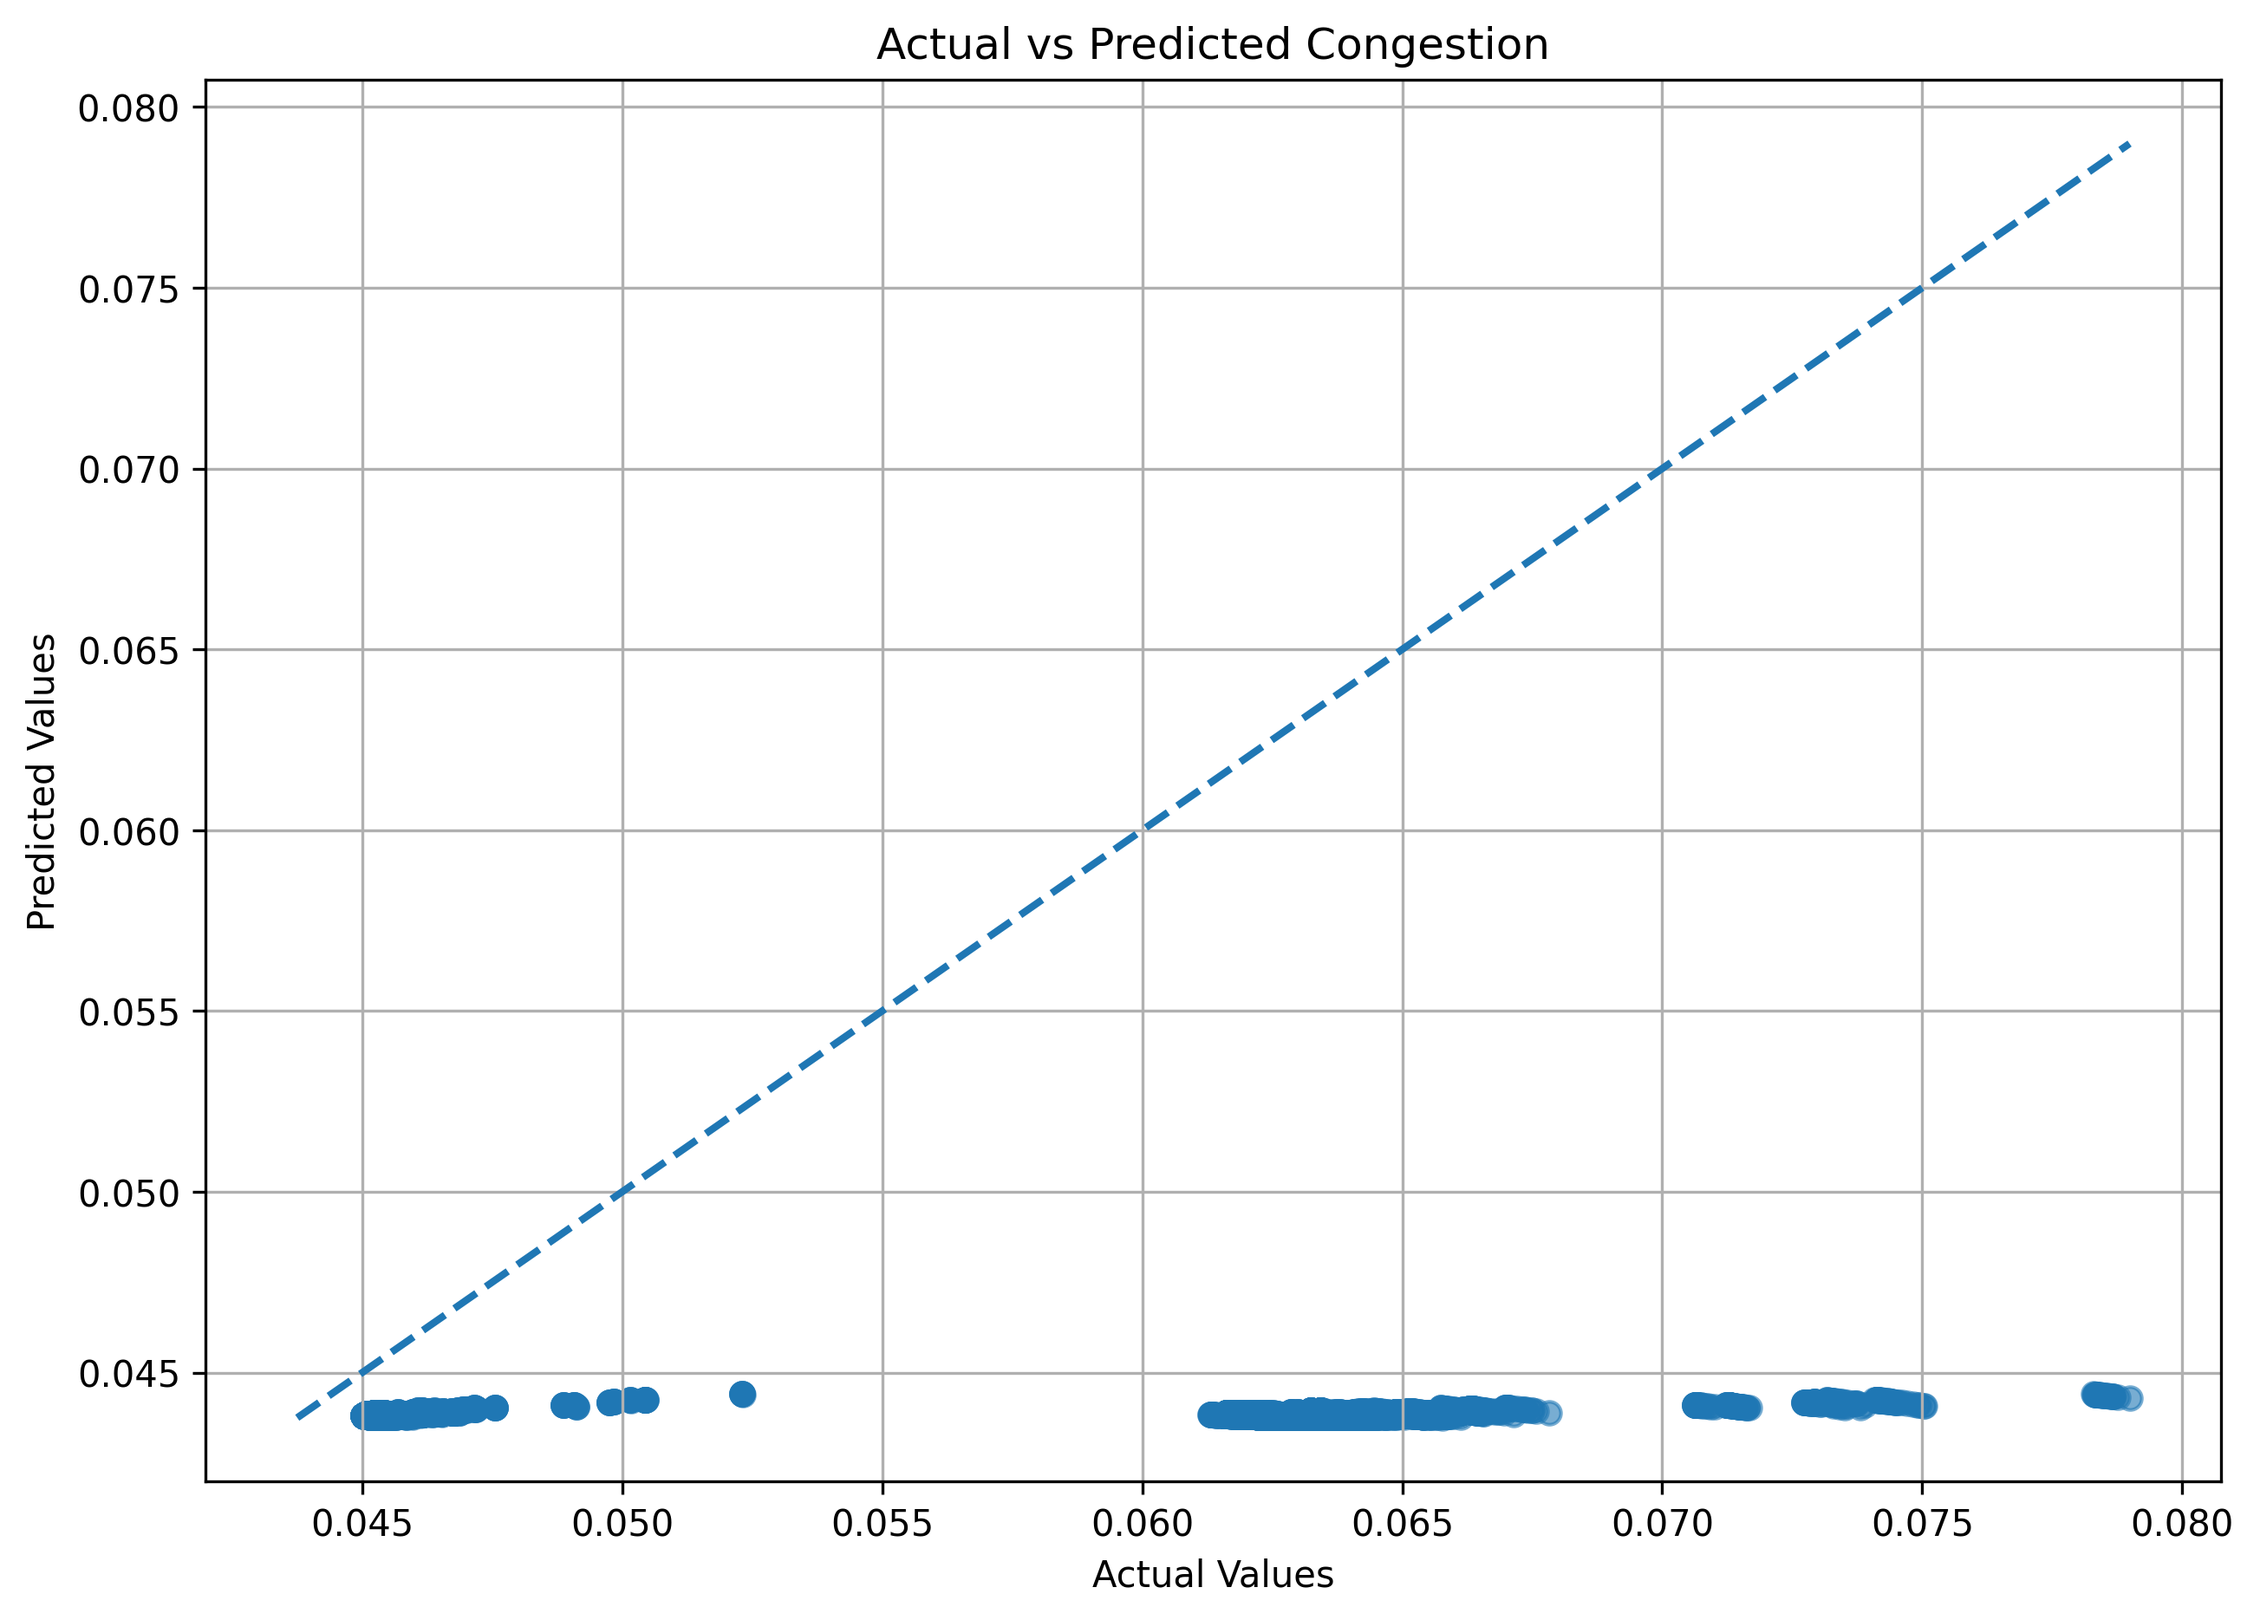
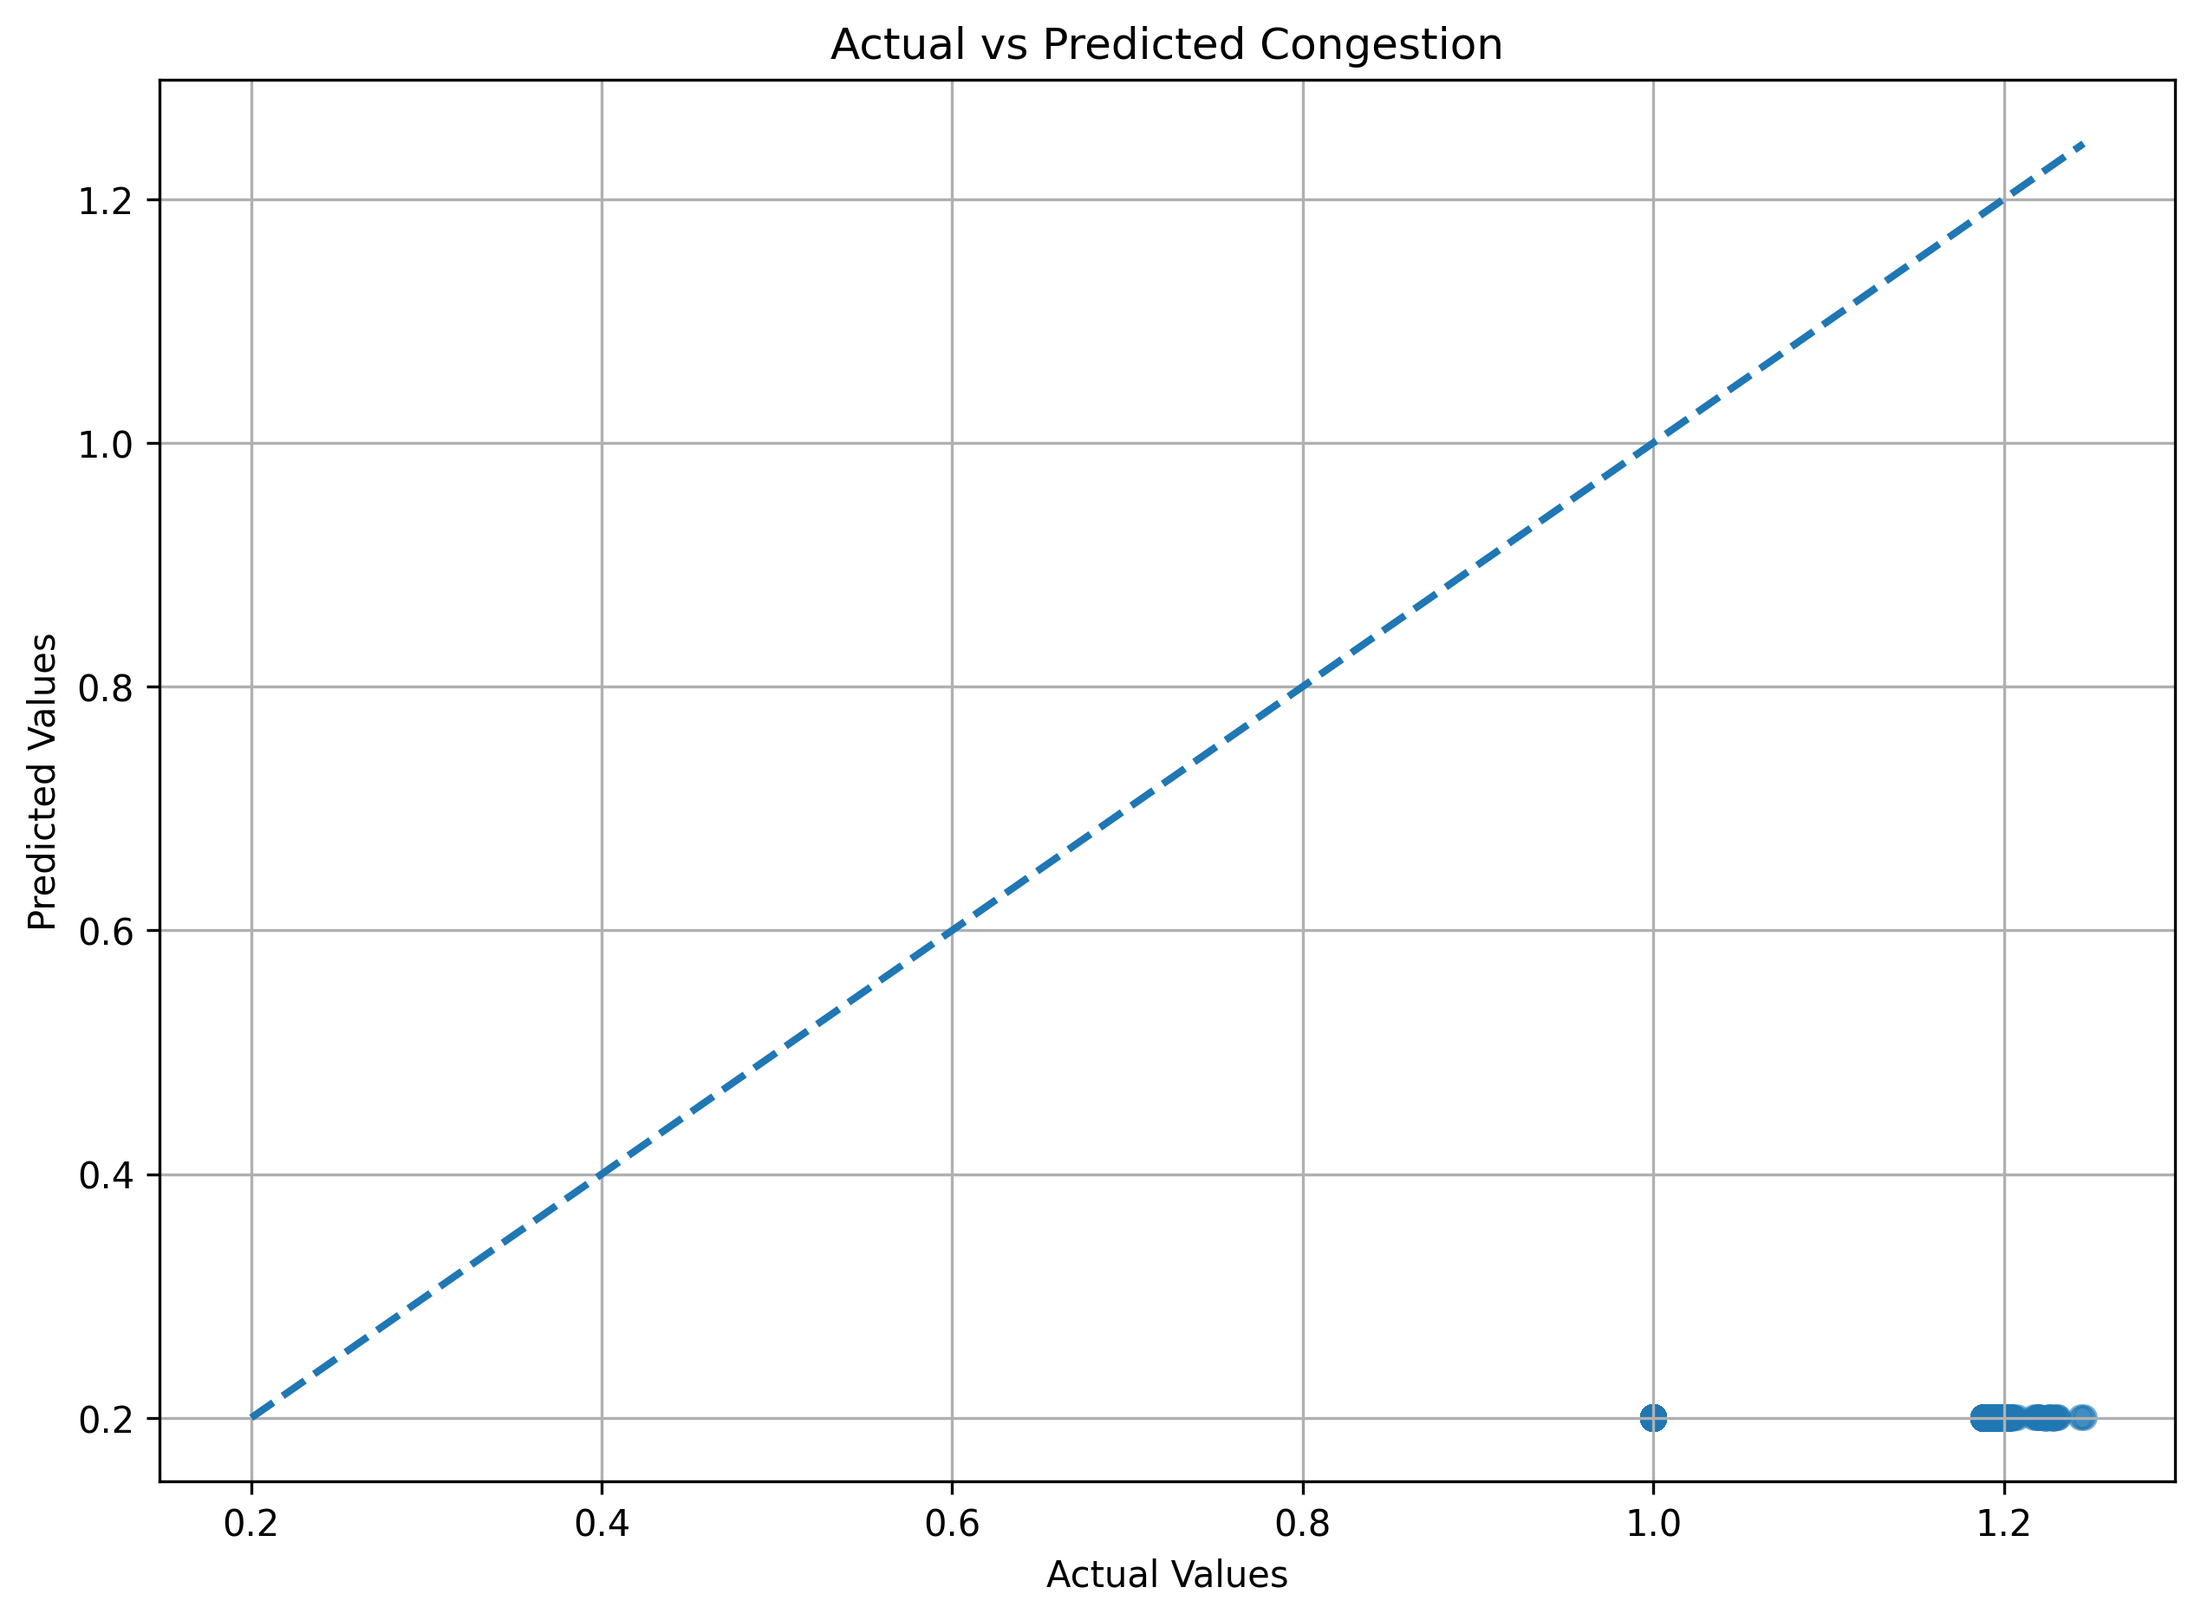
Refactored congestion modelling and improved simulation-driven neural network training

diff --git a/src/routing/metrics.py b/src/routing/metrics.py
@@ -10,8 +10,6 @@ from utils.config import (
 
     ROAD_TYPE_MAPPING,
 
-    DEFAULT_ROAD_TYPE,
-
     TRAINING_DATA_PATH,
 
     RESULTS_CSV_PATH
@@ -57,6 +55,10 @@ def calculate_average_edge_usage(edge_usage):
     Calculate average edge utilisation.
     """
 
+    if len(edge_usage) == 0:
+
+        return 0
+
     total_usage = sum(edge_usage.values())
 
     return total_usage / len(edge_usage)
@@ -70,6 +72,10 @@ def calculate_max_edge_usage(edge_usage):
     """
     Return maximum edge utilisation.
     """
+
+    if len(edge_usage) == 0:
+
+        return 0
 
     return max(edge_usage.values())
 
@@ -115,6 +121,10 @@ def calculate_average_travel_cost(
     """
     Calculate average travel cost.
     """
+
+    if len(vehicles) == 0:
+
+        return 0
 
     total_cost = calculate_total_travel_cost(
 
@@ -220,9 +230,10 @@ def update_congestion_weights(
 
             data = edge_data[key]
 
-            base_travel_time = data[
-                "base_travel_time"
-            ]
+            base_travel_time = data.get(
+                "base_travel_time",
+                1
+            )
 
             road_length = data.get(
                 "length",
@@ -249,26 +260,28 @@ def update_congestion_weights(
 
             road_type_encoded = (
                 ROAD_TYPE_MAPPING.get(
-
                     road_type,
-
-                    DEFAULT_ROAD_TYPE
+                    5
                 )
             )
 
             nearby_congestion = usage
 
+            # --------------------------------------------------
+            # FORCE NUMERIC FEATURES
+            # --------------------------------------------------
+
             features = [[
 
-                usage,
+                float(usage),
 
-                road_length,
+                float(road_length),
 
-                speed_limit,
+                float(speed_limit),
 
-                nearby_congestion,
+                float(nearby_congestion),
 
-                road_type_encoded
+                float(road_type_encoded)
             ]]
 
             # --------------------------------------------------
@@ -279,22 +292,22 @@ def update_congestion_weights(
 
                 try:
 
-                    prediction = (
+                    prediction = float(
+
                         predict_congestion(
                             features
                         )
                     )
 
                     multiplier = (
-                        1.0 + prediction * 4.0
+
+                        1.0 +
+
+                        prediction
                     )
 
-                    multiplier *= 2.0
-
                     multiplier = max(
-
                         1.0,
-
                         min(multiplier, 5.0)
                     )
 
@@ -307,33 +320,52 @@ def update_congestion_weights(
                     multiplier = 1.0
 
             # --------------------------------------------------
-            # Static Weighting
+            # Smooth Static Weighting
             # --------------------------------------------------
 
             else:
 
-                if usage < average_edge_usage * 0.5:
+                congestion_factor = (
 
-                    multiplier = 1.0
+                    usage /
 
-                elif usage < average_edge_usage:
+                    max(average_edge_usage, 1)
 
-                    multiplier = 1.1
+                )
 
-                elif usage < average_edge_usage * 1.5:
+                multiplier = (
 
-                    multiplier = 1.4
+                        1.0 +
 
-                elif usage < average_edge_usage * 2:
+                        (congestion_factor ** 1.3) * 0.8
+                )
 
-                    multiplier = 1.8
+                multiplier = min(
+                    multiplier,
+                    5.0
+                )
 
-                else:
-
-                    multiplier = 2.5
+            # --------------------------------------------------
+            # UPDATED TRAVEL TIME
+            # --------------------------------------------------
 
             updated_travel_time = (
                 base_travel_time * multiplier
+            )
+
+            # --------------------------------------------------
+            # CONGESTION MEMORY / DECAY
+            # --------------------------------------------------
+
+            updated_travel_time = (
+
+                base_travel_time +
+
+                (
+                    updated_travel_time -
+
+                    base_travel_time
+                ) * 0.95
             )
 
             data["travel_time"] = (
@@ -411,7 +443,8 @@ def export_training_data(
 ):
     """
     Export neural network
-    training samples.
+    training samples using
+    observed congestion ratios.
     """
 
     file_exists = TRAINING_DATA_PATH.exists()
@@ -427,6 +460,10 @@ def export_training_data(
 
         writer = csv.writer(file)
 
+        # --------------------------------------------------
+        # CSV HEADER
+        # --------------------------------------------------
+
         if not file_exists:
 
             writer.writerow([
@@ -441,8 +478,12 @@ def export_training_data(
 
                 "road_type",
 
-                "multiplier"
+                "congestion_ratio"
             ])
+
+        # --------------------------------------------------
+        # EDGE DATA EXPORT
+        # --------------------------------------------------
 
         for u, v, key, data in graph.edges(
 
@@ -481,51 +522,53 @@ def export_training_data(
 
             road_type_encoded = (
                 ROAD_TYPE_MAPPING.get(
-
                     road_type,
-
-                    DEFAULT_ROAD_TYPE
+                    5
                 )
             )
 
             nearby_congestion = usage
 
-            features = [[
+            # --------------------------------------------------
+            # OBSERVED CONGESTION
+            # --------------------------------------------------
 
-                usage,
+            base_travel_time = data.get(
+                "base_travel_time",
+                1
+            )
 
-                road_length,
+            current_travel_time = data.get(
+                "travel_time",
+                base_travel_time
+            )
 
-                speed_limit,
+            if base_travel_time == 0:
 
-                nearby_congestion,
+                base_travel_time = 1
 
-                road_type_encoded
-            ]]
+            congestion_ratio = (
 
-            try:
+                current_travel_time /
 
-                multiplier = (
-                    predict_congestion(
-                        features
-                    )
-                )
+                base_travel_time
+            )
 
-            except Exception:
-
-                multiplier = 1.0
+            # --------------------------------------------------
+            # WRITE TRAINING SAMPLE
+            # --------------------------------------------------
 
             writer.writerow([
 
-                usage,
+                float(usage),
 
-                road_length,
+                float(road_length),
 
-                speed_limit,
+                float(speed_limit),
 
-                nearby_congestion,
+                float(nearby_congestion),
 
-                road_type_encoded,
+                float(road_type_encoded),
 
-                multiplier
+                float(congestion_ratio)
             ])

diff --git a/src/neural_network/train_model.py b/src/neural_network/train_model.py
@@ -81,7 +81,7 @@ for column in feature_columns:
 
 training_data = training_data.dropna(
 
-    subset=feature_columns + ["multiplier"]
+    subset=feature_columns + ["congestion_ratio"]
 
 )
 
@@ -92,7 +92,7 @@ X = training_data[
 ].values.astype(float)
 
 y = training_data[[
-    "multiplier"
+    "congestion_ratio"
 ]].values.astype(float)
 
 
@@ -100,11 +100,7 @@ y = training_data[[
 # TARGET OUTPUT
 # ==========================================================
 
-y = training_data[[
-
-    "multiplier"
-
-]].values
+y = training_data[['congestion_ratio']].values
 
 
 print(f"Feature shape: {X.shape}")

diff --git a/src/main.py b/src/main.py
@@ -34,7 +34,7 @@ def main():
 
         algorithm=algorithm,
 
-        use_neural_network=False
+        use_neural_network=True
 
     )
 
